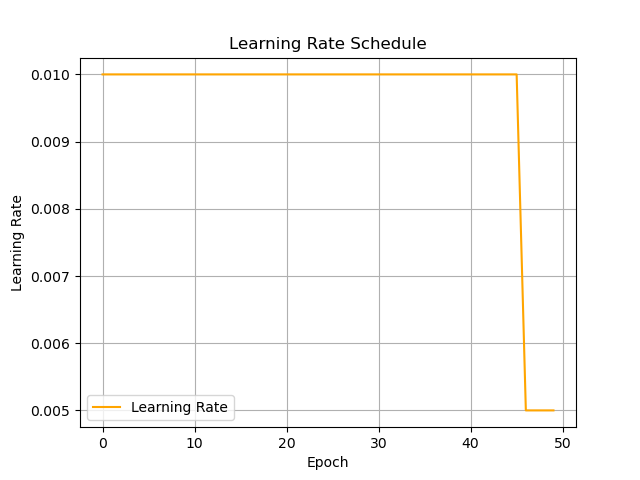
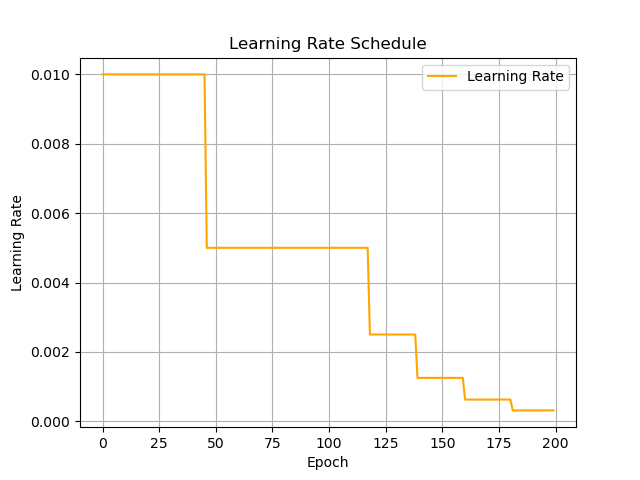
deleted:    cal2.txt 	new file:   cal3.txt 	modified:   loss_curve.png 	modified:   lr_curve.png 	modified:   mapping.py 	modified:   optimize.py 	modified:   spheres.py

diff --git a/optimize.py b/optimize.py
@@ -98,6 +98,40 @@ class HandeyeOptimizer(nn.Module):
         Rm = torch.eye(3, device=device) + torch.sin(theta) * K + (1 - torch.cos(theta)) * K @ K
         return Rm
 
+def is_rigid_transform(T, tol=1e-3):
+    """
+    检查一个 4x4 矩阵是否是刚性变换矩阵。
+    
+    参数:
+        T: 4x4 numpy 数组
+        tol: 容差（默认 1e-3）
+
+    返回:
+        (bool, str): 是否为刚性矩阵，以及诊断信息
+    """
+    if T.shape != (4, 4):
+        return False, "不是 4x4 矩阵"
+
+    R = T[:3, :3]
+    t = T[:3, 3]
+
+    # 正交性检查
+    should_be_identity = R.T @ R
+    identity = np.eye(3)
+    if not np.allclose(should_be_identity, identity, atol=tol):
+        return False, f"⚠ 旋转矩阵不是正交的\nR^T R =\n{should_be_identity}"
+
+    # 行列式为 +1 检查
+    det = np.linalg.det(R)
+    if not np.isclose(det, 1.0, atol=tol):
+        return False, f"⚠ 旋转矩阵行列式不为 1（det = {det:.6f}）"
+
+    # 第四行是否为 [0, 0, 0, 1]
+    if not np.allclose(T[3], np.array([0, 0, 0, 1]), atol=tol):
+        return False, f"最后一行不是 [0, 0, 0, 1]，而是 {T[3]}"
+
+    return True, "是合法的刚性变换矩阵 ✅"
+
 def main(robot_file=None, calib_file=None, base_dir=None, downsample=1.0, Epoch=100):
     device = torch.device("cuda" if torch.cuda.is_available() else "cpu")
     print(f"Using device: {device}")
@@ -110,11 +144,15 @@ def main(robot_file=None, calib_file=None, base_dir=None, downsample=1.0, Epoch=
         import re
         matrix_str = re.search(r"\[\[.*?\]\]", content, re.DOTALL).group()
         end_T_cam_ori = np.array(eval(matrix_str))
+        is_rigid, message = is_rigid_transform(end_T_cam_ori)
+        print("检查结果:", message)
+        if is_rigid == False:
+            print("矩阵校验失败，退出。")
+            return
 
     model = HandeyeOptimizer(end_T_cam_ori).to(device)
     optimizer = optim.Adam(model.parameters(), lr=0.01)
-    scheduler = optim.lr_scheduler.ReduceLROnPlateau(optimizer, mode='min', factor=0.5, patience=20, verbose=True)
-
+    scheduler = optim.lr_scheduler.ReduceLROnPlateau(optimizer, mode='min', factor=0.5, patience=20)
     print("初始 handeye 平移向量 (m):", model.trans.detach().cpu().numpy())
     print("初始 handeye 旋转向量 (axis-angle):", model.rotvec.detach().cpu().numpy())
     print("\n开始优化...\n")
@@ -176,8 +214,8 @@ if __name__ == "__main__":
     parser.add_argument("--downsample", type=float, default=1.0, help="体素降采样大小，单位为毫米，默认 1.0")
     parser.add_argument("--base_dir", type=str, default="./0411", help="点云文件夹路径")
     parser.add_argument("--robot_file", type=str, default="aubo_record_2025-04-11_22-15-34.txt", help="机械臂位姿文件")
-    parser.add_argument("--calib_file", type=str, default="cal.txt", help="手眼标定文件")
-    parser.add_argument("--Epoch", type=int, default=50, help="迭代次数")
+    parser.add_argument("--calib_file", type=str, default="cal2.txt", help="手眼标定文件")
+    parser.add_argument("--Epoch", type=int, default=200, help="迭代次数")
     args = parser.parse_args()
 
     main(robot_file=args.robot_file,

diff --git a/spheres.py b/spheres.py
@@ -13,6 +13,40 @@ def pose_to_matrix(position, quat_xyzw):
     T[:3, 3] = position
     return T
 
+def is_rigid_transform(T, tol=1e-3):
+    """
+    检查一个 4x4 矩阵是否是刚性变换矩阵。
+    
+    参数:
+        T: 4x4 numpy 数组
+        tol: 容差（默认 1e-3）
+
+    返回:
+        (bool, str): 是否为刚性矩阵，以及诊断信息
+    """
+    if T.shape != (4, 4):
+        return False, "不是 4x4 矩阵"
+
+    R = T[:3, :3]
+    t = T[:3, 3]
+
+    # 正交性检查
+    should_be_identity = R.T @ R
+    identity = np.eye(3)
+    if not np.allclose(should_be_identity, identity, atol=tol):
+        return False, f"⚠ 旋转矩阵不是正交的\nR^T R =\n{should_be_identity}"
+
+    # 行列式为 +1 检查
+    det = np.linalg.det(R)
+    if not np.isclose(det, 1.0, atol=tol):
+        return False, f"⚠ 旋转矩阵行列式不为 1（det = {det:.6f}）"
+
+    # 第四行是否为 [0, 0, 0, 1]
+    if not np.allclose(T[3], np.array([0, 0, 0, 1]), atol=tol):
+        return False, f"最后一行不是 [0, 0, 0, 1]，而是 {T[3]}"
+
+    return True, "是合法的刚性变换矩阵 ✅"
+
 def fit_sphere(points):
     def residuals(params, xyz):
         cx, cy, cz, r = params
@@ -39,7 +73,12 @@ def main(base_dir=None, robot_file=None, calib_file=None):
     # === 加载标定矩阵 ===
     with open(calib_file, "r") as f:
         content = f.read()
-        end_T_cam = eval(content.split('=')[1].strip())
+        end_T_cam = np.array(eval(content.split('=')[1].strip()))
+        is_rigid, message = is_rigid_transform(end_T_cam)
+        print("检查结果:", message)
+        if is_rigid == False:
+            print("矩阵校验失败，退出。")
+            return
 
     # === 加载机械臂位姿 ===
     pose_list = []

diff --git a/mapping.py b/mapping.py
@@ -8,7 +8,7 @@ from scipy.spatial.transform import Rotation as R
 # ================== 配置路径 ==================
 base_dir = "./0411"  # 点云文件夹
 record_file = "aubo_record_2025-04-11_22-15-34.txt"
-calib_file = "cal5.txt"
+calib_file = "cal2.txt"
 
 # ================== 加载手眼标定矩阵 ==================
 print("加载手眼标定矩阵...")
